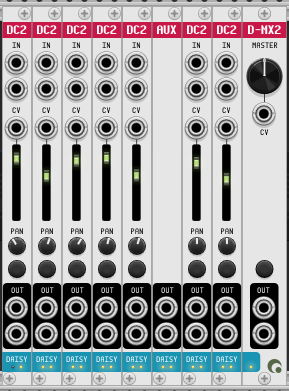
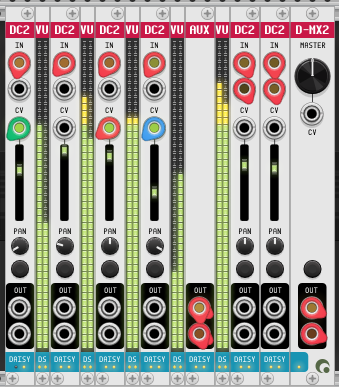
Update documentation with new VU module

diff --git a/README.md b/README.md
@@ -37,6 +37,10 @@ Note that there are several input channels chained together and then an aux chan
 
 This module will simply collect the mix from all previous daisy mix channels in the chain and provide two stereo outputs to send off for effects processing. Bring back the signal into the mixer by adding another channel strip to the right.
 
+## VU | Daisy Mix Channel VU Meter | 1HP
+
+Attach this module to the right of a Daisy Channel strip and it will show a VU meter of the voltage signal for that channel strip. Part of the Daisy chain modular mixer.
+
 ## D-MX2 | Daisy Mix Master STEREO | 3HP
 
 The final module in the end of the chain, acts as a master bus for the Daisy-chained channels. It has a master fader knob with CV control, a mute button, and two output channels (L and R). The master bus will clamp signals to (+/-) 12 volt output signal.
